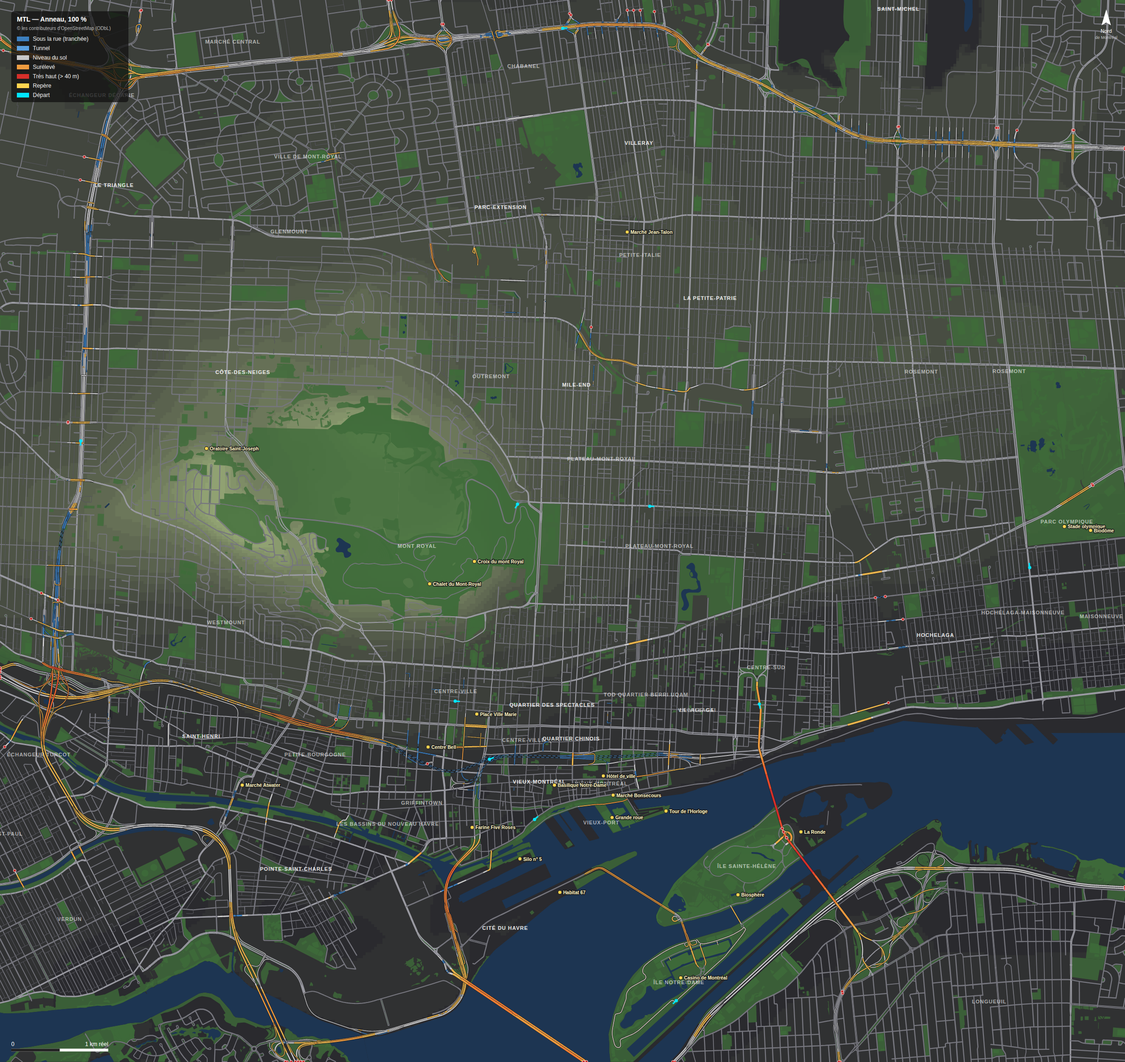
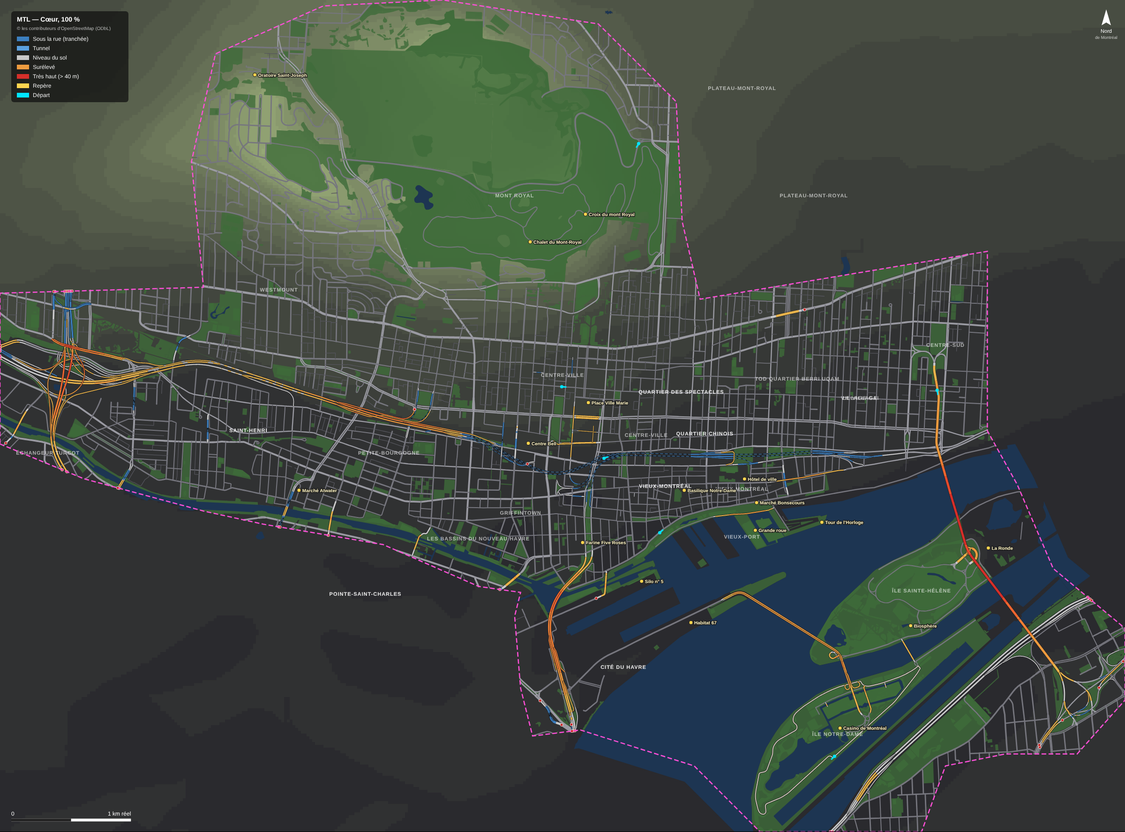
Réduit la carte à la zone Cœur, un polygone entre le fleuve, le mont Royal et Turcot
Claude-Session: https://claude.ai/code/session_01GfLzFpRJbQWuRr7xRVpeu8

diff --git a/mtl/src/zones-ui.js b/mtl/src/zones-ui.js
@@ -169,9 +169,20 @@ function drawBase() {
   c.fillStyle = d ? 'rgba(255,255,255,.5)' : 'rgba(0,0,0,.55)';
   c.font = '11px system-ui, sans-serif';
   for (const z of Object.values(ZONES)) {
-    const [a, b, e, f] = z.box;
-    c.strokeRect(sx(a), sy(f), (e - a) * ppm, (f - b) * ppm);
-    c.fillText(z.nom, sx(a) + 4, sy(f) + 13);
+    if (z.box) {
+      const [a, b, e, f] = z.box;
+      c.strokeRect(sx(a), sy(f), (e - a) * ppm, (f - b) * ppm);
+      c.fillText(z.nom, sx(a) + 4, sy(f) + 13);
+      continue;
+    }
+    for (const ring of z.poly) {
+      c.beginPath();
+      ring.forEach(([x, n], i) => (i ? c.lineTo(sx(x), sy(n)) : c.moveTo(sx(x), sy(n))));
+      c.closePath();
+      c.stroke();
+    }
+    const [x, n] = z.poly[0].reduce((m, p) => (p[1] > m[1] ? p : m));
+    c.fillText(z.nom, sx(x) + 4, sy(n) + 13);
   }
   c.setLineDash([]);
   c.beginPath();
@@ -595,9 +606,12 @@ $('clear').addEventListener('click', () => {
 });
 document.querySelectorAll('[data-preset]').forEach((b) => b.addEventListener('click', () => {
   const z = ZONES[b.dataset.preset];
-  const [x0, n0, x1, n1] = z.box;
   snapshot();
-  S.shapes = [paramShape('rect', (x0 + x1) / 2, (n0 + n1) / 2, x1 - x0, n1 - n0)];
+  if (z.poly) S.shapes = z.poly.map((pts) => ({ kind: 'poly', pts: pts.map((p) => p.slice()) }));
+  else {
+    const [x0, n0, x1, n1] = z.box;
+    S.shapes = [paramShape('rect', (x0 + x1) / 2, (n0 + n1) / 2, x1 - x0, n1 - n0)];
+  }
   S.sel = 0;
   if (!S.nom) { S.nom = z.nom; $('nom').value = S.nom; }
   changed();
@@ -706,7 +720,10 @@ function load() {
   const params = new URLSearchParams(location.search);
   let init = null;
   if (params.get('forme')) init = decodeShape(params.get('forme'));
-  else if (params.get('zone') && ZONES[params.get('zone')]) init = { nom: ZONES[params.get('zone')].nom, box: ZONES[params.get('zone')].box };
+  else if (params.get('zone') && ZONES[params.get('zone')]) {
+    const z = ZONES[params.get('zone')];
+    init = { nom: z.nom, box: z.box, poly: z.poly && z.poly.map((r) => r.map((p) => p.slice())) };
+  }
   if (init) {
     S.nom = init.nom || '';
     S.shapes = init.box

diff --git a/mtl/src/map/zones.js b/mtl/src/map/zones.js
@@ -11,6 +11,31 @@
 import * as G from './geom.js';
 
 export const ZONES = {
+  // The playable map: a closed shape you can read at a glance, like an
+  // open-world game's. The river on the south, the mountain on the north,
+  // Turcot on the west; the Lachine canal under Saint-Henri, the islands and
+  // the foot of the Jacques-Cartier bridge in Longueuil, so no bridge stops
+  // in mid-river. About 30 km², a quarter of `anneau`.
+  coeur: {
+    nom: 'Cœur',
+    description: 'Centre-ville, Vieux-Montréal, Vieux-Port, mont Royal, Saint-Henri, Turcot, les îles et la tête du pont à Longueuil',
+    poly: [[
+      // West: Turcot, from the foot of the Décarie trench to the canal.
+      [-4700, 700], [-4700, -560],
+      // South-west: the south bank of the Lachine canal.
+      [-4000, -850], [-3000, -1120], [-2500, -1230], [-1500, -1400], [-700, -1750], [-350, -1800],
+      // Bonaventure down to the Cité du Havre, then the river (the Victoria
+      // bridge stays outside: it leads nowhere in this zone).
+      [-400, -2000], [-350, -2600], [-250, -3000], [150, -2950], [1100, -3250], [1650, -3800], [3000, -3800],
+      // Longueuil, at the foot of the bridge.
+      [3200, -3250], [3700, -3150], [4300, -3150], [4700, -2700], [4700, -2100], [4100, -1600],
+      // Back across the river, then up De Lorimier.
+      [3800, -900], [3550, -450], [3550, 1050],
+      // North: Sherbrooke, the Avenue du Parc, around the mountain.
+      [1150, 650], [1000, 1300], [950, 2300], [300, 2950], [-1000, 3150], [-2000, 3100],
+      [-2900, 2700], [-3100, 1800], [-3000, 750],
+    ]],
+  },
   centre: {
     nom: 'Centre',
     description: 'Centre-ville, Vieux-Montréal, Vieux-Port, Plateau, mont Royal, la Ville-Marie et les îles',
@@ -25,7 +50,7 @@ export const ZONES = {
 
 export const ECHELLES = [100, 85, 70];
 
-export const DEFAUTS = { zone: 'anneau', echelle: 100 };
+export const DEFAUTS = { zone: 'coeur', echelle: 100 };
 
 /** The id a drawn zone goes by in `settings.zone`. */
 export const PERSO = 'perso';

diff --git a/mtl/src/map/montreal.js b/mtl/src/map/montreal.js
@@ -90,11 +90,13 @@ export const LANDMARKS = [
 // Where you start: on a named road, near a point, facing roughly `heading`.
 // Resolved on the compiled map (the nearest sample of that road going that
 // way), so they survive any zone and any scale.
+// The first one in the zone is where the game starts when ?spawn= names none
+// (Décarie, else Sainte-Catherine).
 export const SPAWNS = [
   { id: 'decarie', name: 'Tranchée Décarie', road: 'Autoroute Décarie', x: -3780, n: 2600, heading: 180 },
   { id: 'metropolitaine', name: 'Sur la Métropolitaine', road: 'Autoroute Métropolitaine', x: 1200, n: 5900, heading: 90 },
-  { id: 'ville-marie', name: 'Tunnel Ville-Marie', road: 'Autoroute Ville-Marie', x: 300, n: -550, heading: 90 },
   { id: 'centre-ville', name: 'Rue Sainte-Catherine', road: 'Rue Sainte-Catherine Ouest', x: 0, n: 0, heading: 90 },
+  { id: 'ville-marie', name: 'Tunnel Ville-Marie', road: 'Autoroute Ville-Marie', x: 300, n: -550, heading: 90 },
   { id: 'vieux-port', name: 'Rue de la Commune', road: 'Rue de la Commune Ouest', x: 900, n: -1400, heading: 90 },
   { id: 'plateau', name: 'Avenue du Mont-Royal', road: 'Avenue du Mont-Royal Est', x: 2000, n: 1950, heading: 90 },
   { id: 'camillien-houde', name: 'Voie Camillien-Houde', road: 'Voie Camillien-Houde', x: 620, n: 1960, heading: 270 },

diff --git a/mtl/zones.html b/mtl/zones.html
@@ -86,6 +86,7 @@
       <button id="link">Copier le lien</button>
     </div>
     <div class="row">
+      <button data-preset="coeur">Cœur</button>
       <button data-preset="centre">Centre</button>
       <button data-preset="anneau">Anneau</button>
       <button id="clear">Tout effacer</button>

diff --git a/mtl/README.md b/mtl/README.md
@@ -23,8 +23,16 @@ Deux réglages, dans le bouton **Carte…** en haut (la page se reconstruit) :
 
 | Zone | Contenu |
 |---|---|
+| `coeur` (par défaut) | la carte de jeu : centre-ville, Vieux-Montréal, Vieux-Port, mont Royal, Saint-Henri, Turcot, les îles, la tête du pont Jacques-Cartier à Longueuil (36 km²) |
 | `centre` | centre-ville, Vieux-Montréal, Vieux-Port, Plateau, mont Royal, Ville-Marie, les îles (~7 × 7 km) |
 | `anneau` | le centre, plus Décarie, la Métropolitaine (A-40), Turcot, le Stade (~12 × 11 km) |
+
+`coeur` est un polygone, pas un rectangle : une forme qu'on lit d'un coup
+d'œil, comme la carte d'un monde ouvert. Le fleuve au sud et à l'est, le mont
+Royal au nord, Turcot à l'ouest, le canal de Lachine sous Saint-Henri. Les
+ponts qui mènent aux îles et à la rive sud restent entiers ; ceux qui sortent
+de la carte (Victoria, Champlain par Bonaventure) s'arrêtent sur une barrière.
+Décarie, la 40 et le Stade n'y sont pas : ils restent dans `anneau`.
 
 **Échelle** : 100 % (la vraie ville), 85 % ou 70 %. En dessous de 100 %,
 tout rapetisse d'autant — rues, bâtiments, relief — sauf la voiture et les
